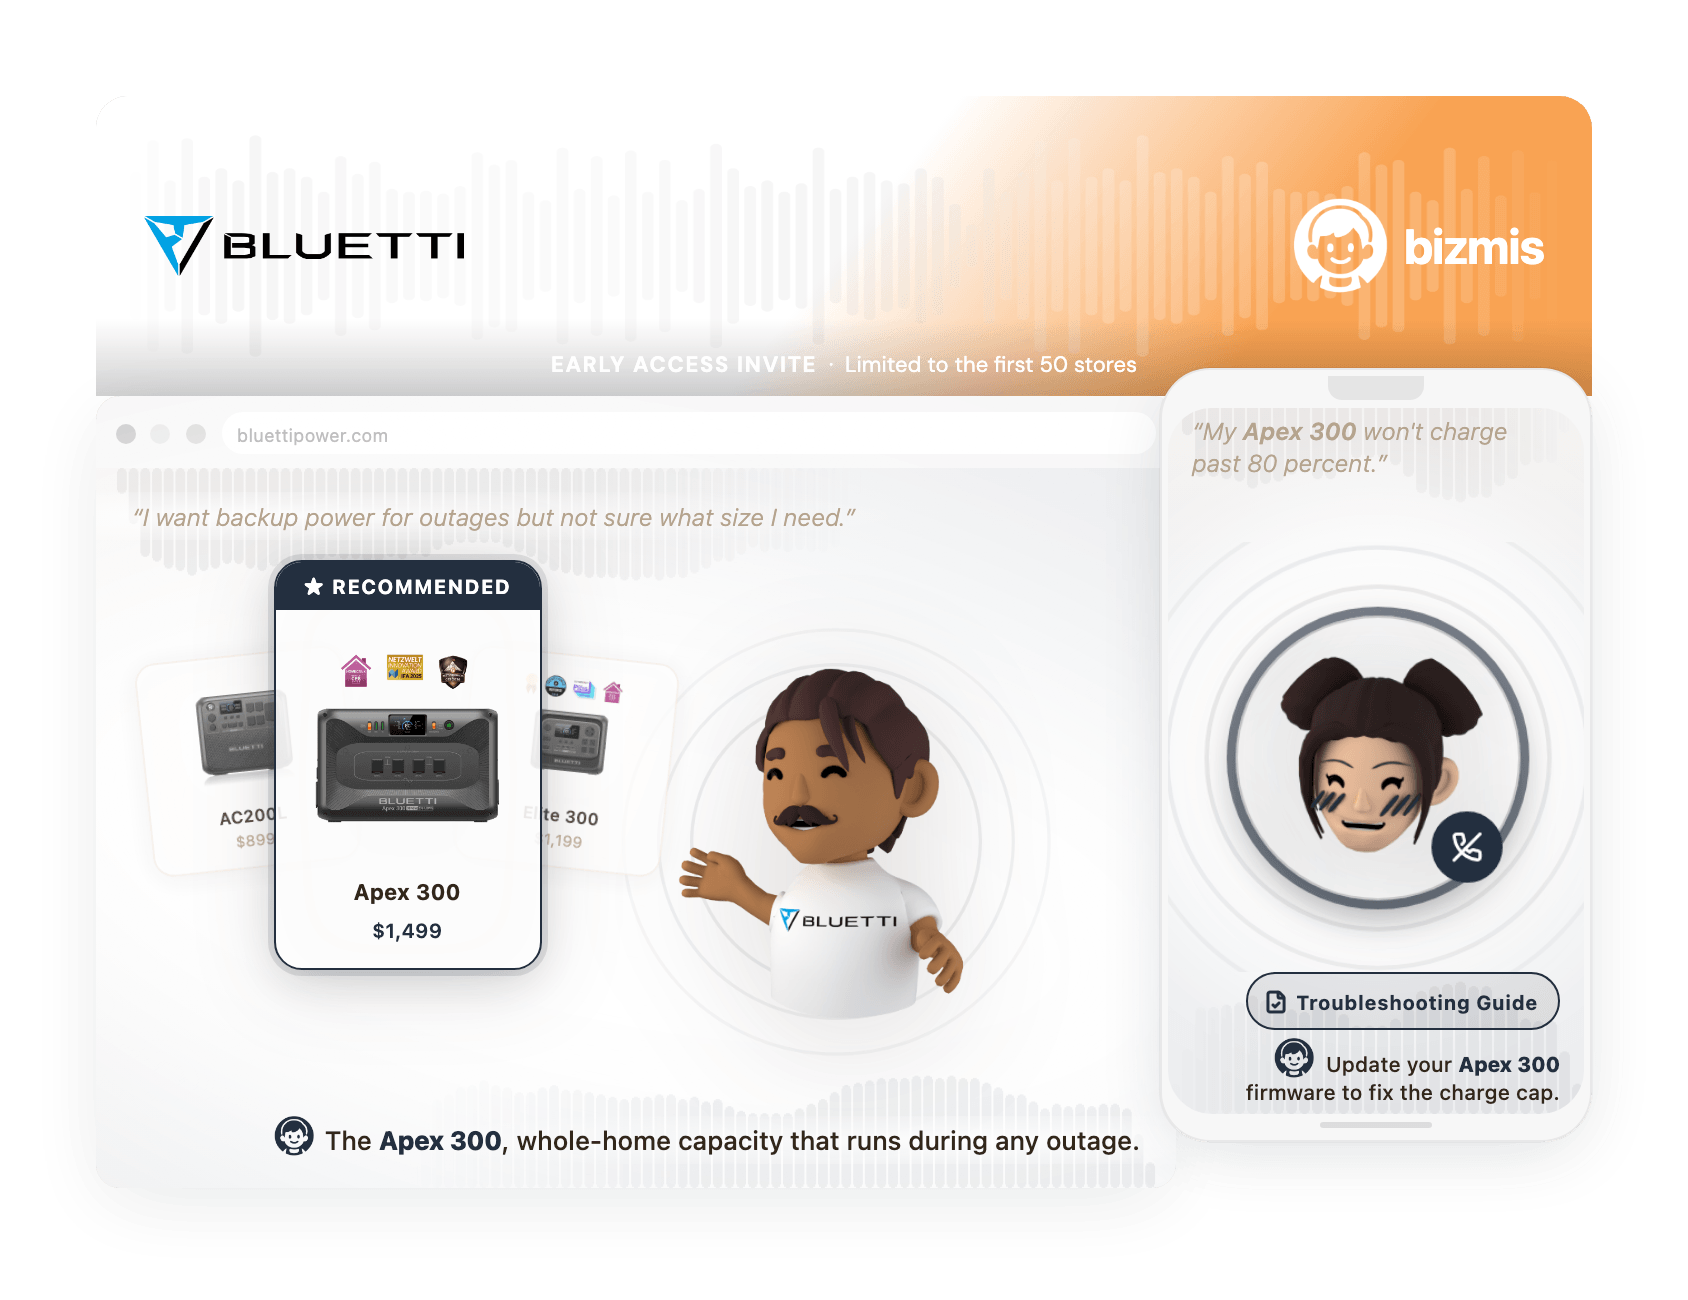
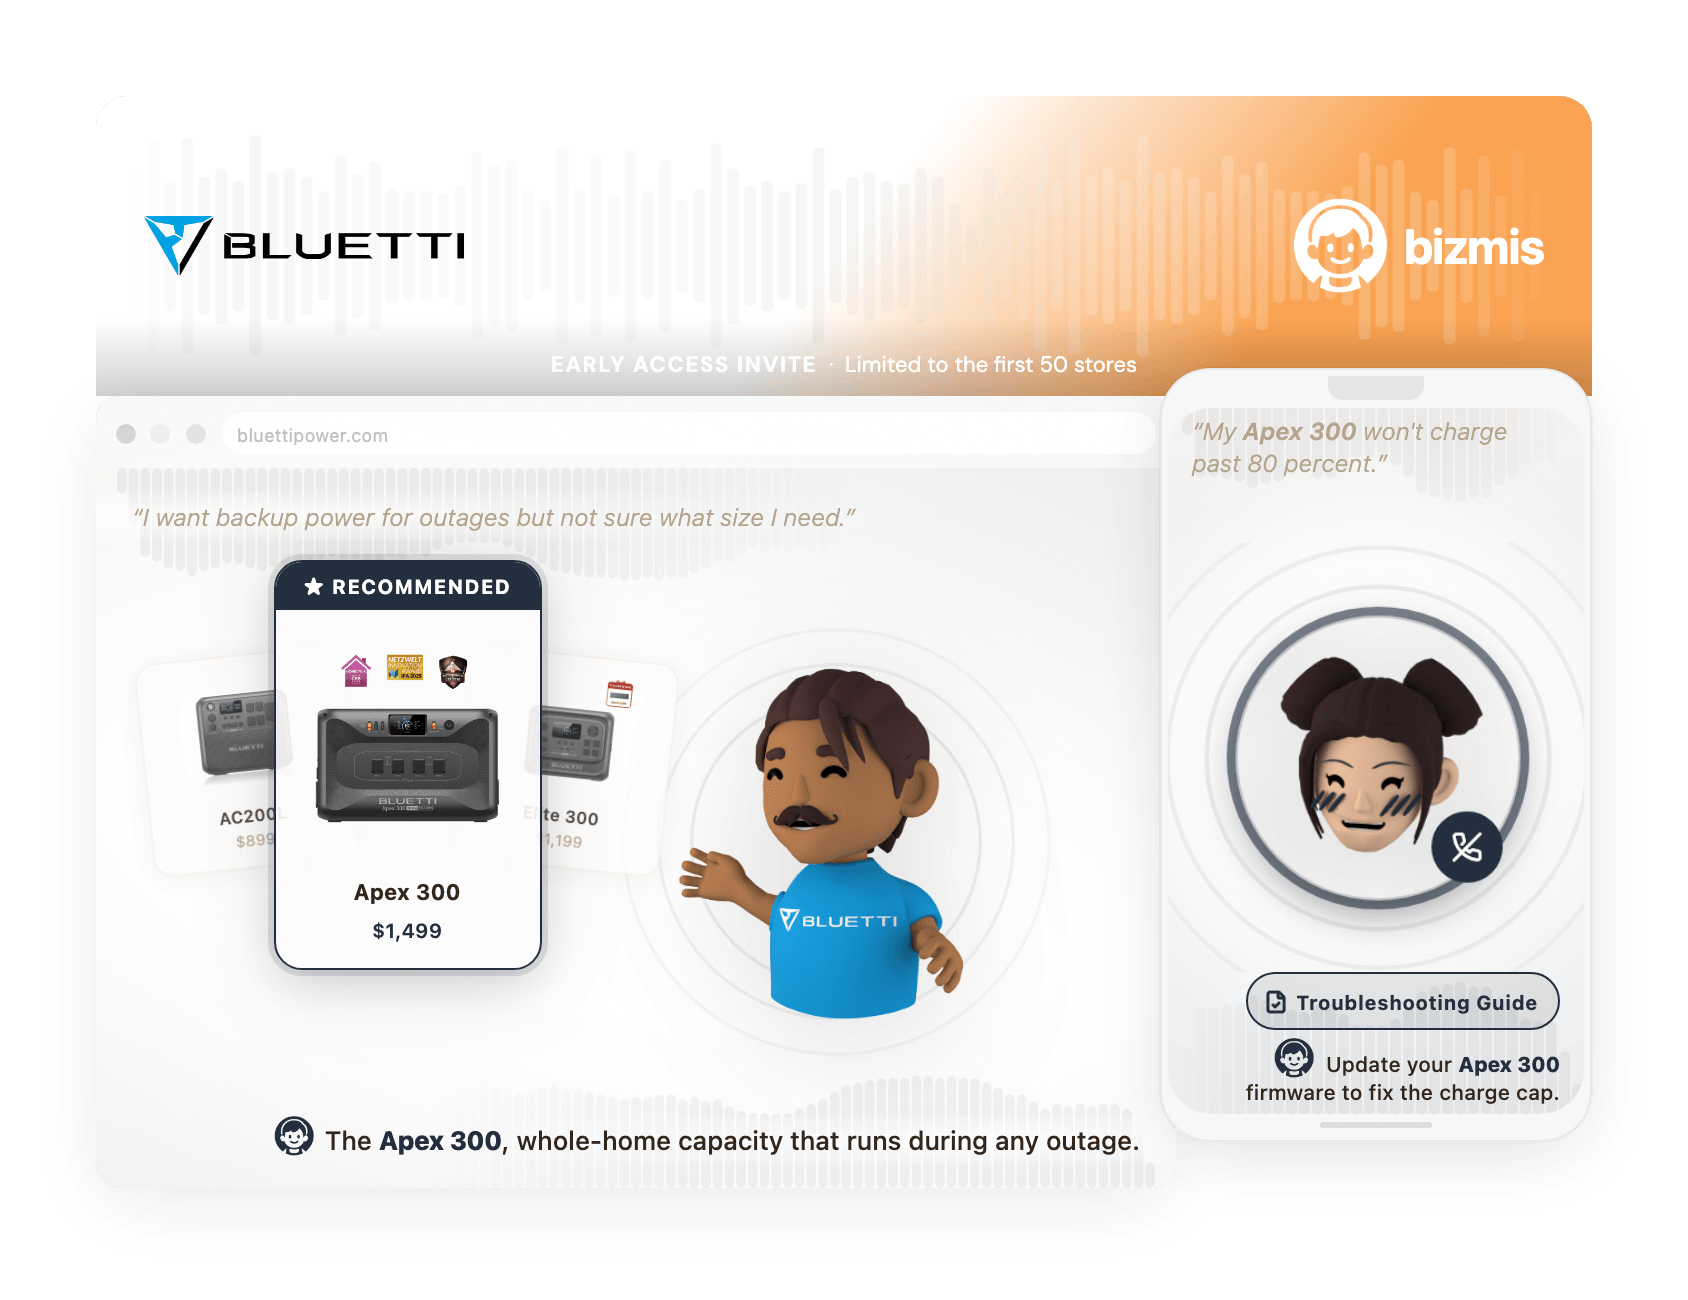
feat: add new assets and configuration for Upscale Audio lead
Introduced new image assets for Upscale Audio, including product images and avatars. Updated the lead configuration to include Upscale Audio in the system, along with its specific attributes and sales products. Adjusted Bluetti's product image format for consistency.

Changed region(s): [[0.4313, 0.6462, 0.5545, 0.8], [0.3081, 0.5231, 0.3697, 0.6154]]

diff --git a/src/data/leadEarlyAccessProductManifest.ts b/src/data/leadEarlyAccessProductManifest.ts
@@ -3,7 +3,7 @@
 export type LeadProductSlot = "a" | "b" | "c";
 
 export const LEAD_PRODUCT_URLS: Record<string, Partial<Record<LeadProductSlot, string>>> = {
-  "bluetti": { a: "/invite-cards/leads/bluetti/product-a.webp", b: "/invite-cards/leads/bluetti/product-b.png", c: "/invite-cards/leads/bluetti/product-c.png" },
+  "bluetti": { a: "/invite-cards/leads/bluetti/product-a.webp", b: "/invite-cards/leads/bluetti/product-b.png", c: "/invite-cards/leads/bluetti/product-c.webp" },
   "bulova": { a: "/invite-cards/leads/bulova/product-a.png", b: "/invite-cards/leads/bulova/product-b.png", c: "/invite-cards/leads/bulova/product-c.png" },
   "burrow": { a: "/invite-cards/leads/burrow/product-a.png", b: "/invite-cards/leads/burrow/product-b.png", c: "/invite-cards/leads/burrow/product-c.png" },
   "crownandcaliber": { a: "/invite-cards/leads/crownandcaliber/product-a.png", b: "/invite-cards/leads/crownandcaliber/product-b.png", c: "/invite-cards/leads/crownandcaliber/product-c.png" },
@@ -32,6 +32,7 @@ export const LEAD_PRODUCT_URLS: Record<string, Partial<Record<LeadProductSlot, s
   "speedengineering": { a: "/invite-cards/leads/speedengineering/product-a.png", b: "/invite-cards/leads/speedengineering/product-b.png", c: "/invite-cards/leads/speedengineering/product-c.png" },
   "thehomesecuritysuperstore": { a: "/invite-cards/leads/thehomesecuritysuperstore/product-a.png", b: "/invite-cards/leads/thehomesecuritysuperstore/product-b.png", c: "/invite-cards/leads/thehomesecuritysuperstore/product-c.png" },
   "theproscloset": { a: "/invite-cards/leads/theproscloset/product-a.jpg", b: "/invite-cards/leads/theproscloset/product-b.jpg", c: "/invite-cards/leads/theproscloset/product-c.jpg" },
+  "upscale-audio": { a: "/invite-cards/leads/upscale-audio/product-a.jpg", b: "/invite-cards/leads/upscale-audio/product-b.jpg", c: "/invite-cards/leads/upscale-audio/product-c.jpg" },
   "urotuning": { a: "/invite-cards/leads/urotuning/product-a.png", b: "/invite-cards/leads/urotuning/product-b.png", c: "/invite-cards/leads/urotuning/product-c.png" },
   "uswatersystems": { a: "/invite-cards/leads/uswatersystems/product-a.png", b: "/invite-cards/leads/uswatersystems/product-b.png", c: "/invite-cards/leads/uswatersystems/product-c.png" },
 };

diff --git a/src/data/leads/index.ts b/src/data/leads/index.ts
@@ -32,6 +32,7 @@ import speedengineering from "./speedengineering.json";
 import gorjana from "./gorjana.json";
 import crownandcaliber from "./crownandcaliber.json";
 import schoolhouse from "./schoolhouse.json";
+import upscaleaudio from "./upscale-audio.json";
 
 const RAW_LEADS = [
   mockLeadInviteCard,
@@ -65,6 +66,7 @@ const RAW_LEADS = [
   gorjana,
   crownandcaliber,
   schoolhouse,
+  upscaleaudio,
 ];
 
 function defaultCouponCodeFromId(id: string): string {

diff --git a/scripts/early_access_avatars/_config.py b/scripts/early_access_avatars/_config.py
@@ -337,6 +337,8 @@ LEAD_REGISTRY: list[dict] = [
         "id": "bluetti",
         "primary_color": "#FFFFFF",
         "logo_color_overlay": None,
+        "shirt_color": "#00A2E4",
+        "stamp_color_overlay": "#FFFFFF",
         "avatar_id": "kiran",
         "support_avatar_id": "yue",
         "stamp_scale": 1.7,
@@ -483,6 +485,16 @@ LEAD_REGISTRY: list[dict] = [
         "avatar_id": "amber",
         "support_avatar_id": "will",
         "stamp_scale": 1.05,
+    },
+    # ── Batch 3 ──
+    {
+        "id": "upscale-audio",
+        "primary_color": "#FFFFFF",
+        "logo_color_overlay": None,
+        "shirt_color": "#1a1a1a",
+        "stamp_color_overlay": None,
+        "avatar_id": "echo",
+        "support_avatar_id": "amber",
     },
 ]
 
